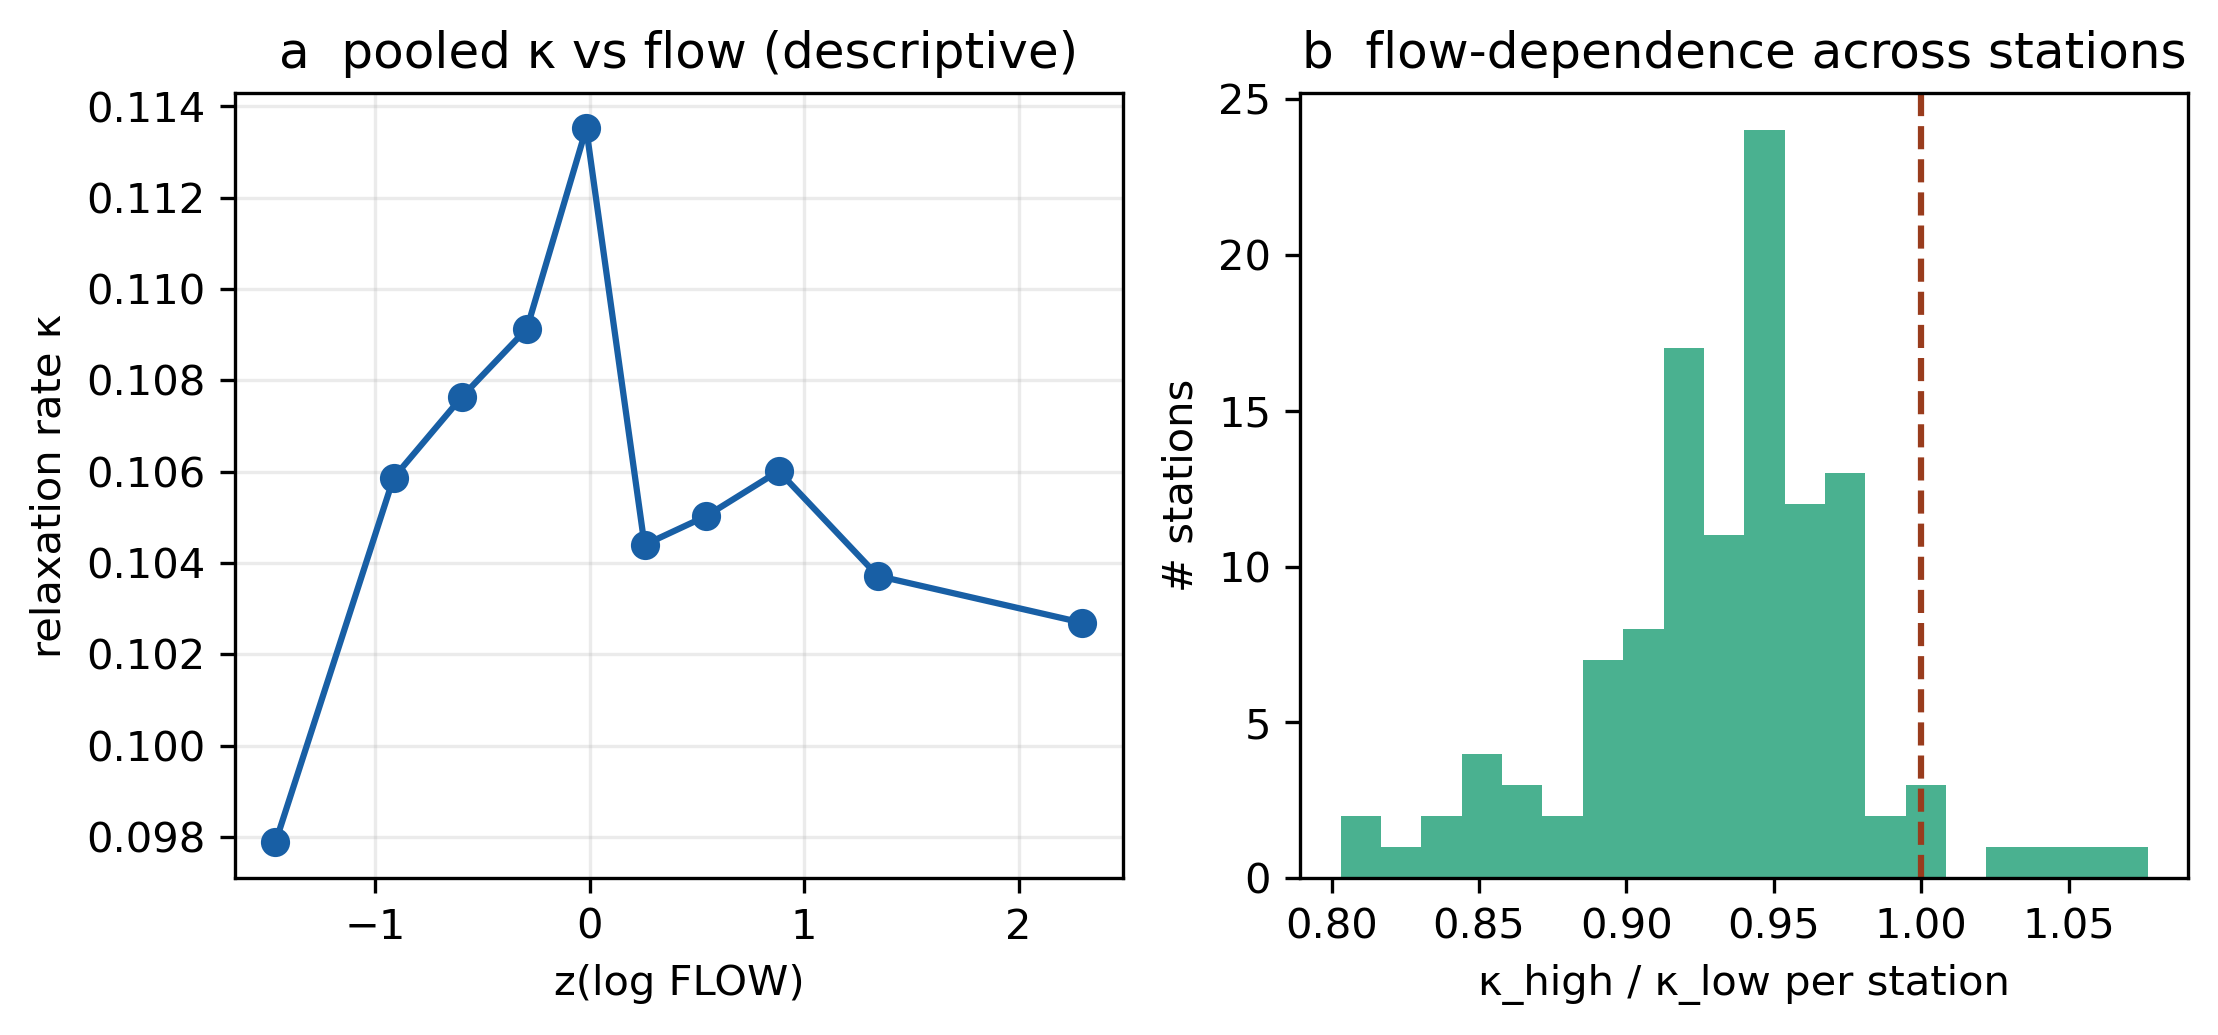
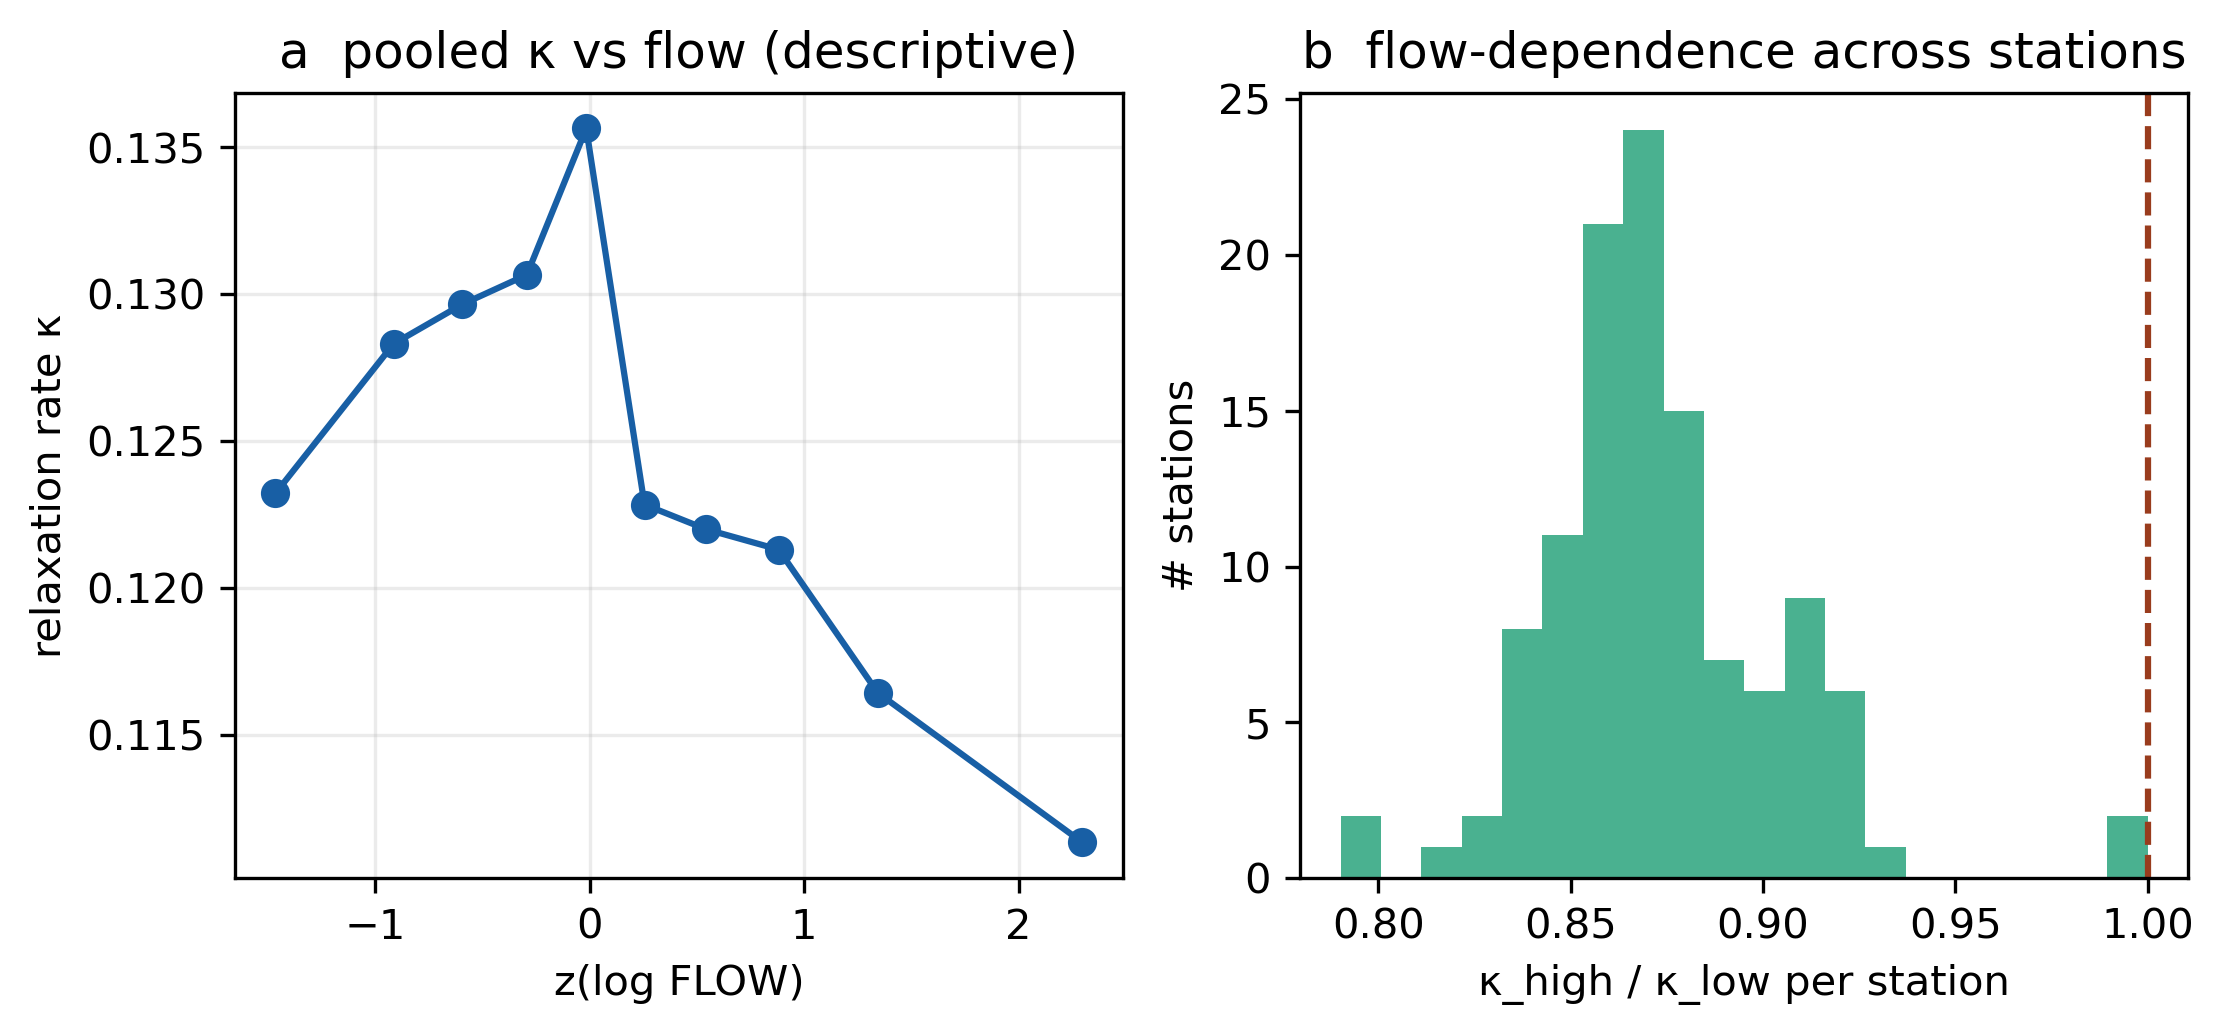
docs(paper): add per-station LightGBM row to Table A (global LGB is the stronger config)
M4 complete: per-station LightGBM (0.632/1.324/1.750) over-fits the limited per-gage record and is worse at h3/h7 than both the global LightGBM and ThermoRoute; Table A now reports both LightGBM configs and states the parity comparison is against the stronger global model. Re-rendered PDF/DOCX/AGU; manifest refreshed; pytest 14/14.

diff --git a/paper/agu_submission/ThermoRoute_WRR.tex b/paper/agu_submission/ThermoRoute_WRR.tex
@@ -427,15 +427,16 @@ Toffolon--Piccolroaz --- §3.5) is included as a \emph{physical} strong baseline
 
 {\def\LTcaptype{none} % do not increment counter
 \begin{longtable}[]{@{}
-  >{\raggedright\arraybackslash}p{(\linewidth - 16\tabcolsep) * \real{0.1111}}
-  >{\raggedright\arraybackslash}p{(\linewidth - 16\tabcolsep) * \real{0.1111}}
-  >{\raggedright\arraybackslash}p{(\linewidth - 16\tabcolsep) * \real{0.1111}}
-  >{\raggedright\arraybackslash}p{(\linewidth - 16\tabcolsep) * \real{0.1111}}
-  >{\raggedright\arraybackslash}p{(\linewidth - 16\tabcolsep) * \real{0.1111}}
-  >{\raggedright\arraybackslash}p{(\linewidth - 16\tabcolsep) * \real{0.1111}}
-  >{\raggedright\arraybackslash}p{(\linewidth - 16\tabcolsep) * \real{0.1111}}
-  >{\raggedright\arraybackslash}p{(\linewidth - 16\tabcolsep) * \real{0.1111}}
-  >{\raggedright\arraybackslash}p{(\linewidth - 16\tabcolsep) * \real{0.1111}}@{}}
+  >{\raggedright\arraybackslash}p{(\linewidth - 18\tabcolsep) * \real{0.1000}}
+  >{\raggedright\arraybackslash}p{(\linewidth - 18\tabcolsep) * \real{0.1000}}
+  >{\raggedright\arraybackslash}p{(\linewidth - 18\tabcolsep) * \real{0.1000}}
+  >{\raggedright\arraybackslash}p{(\linewidth - 18\tabcolsep) * \real{0.1000}}
+  >{\raggedright\arraybackslash}p{(\linewidth - 18\tabcolsep) * \real{0.1000}}
+  >{\raggedright\arraybackslash}p{(\linewidth - 18\tabcolsep) * \real{0.1000}}
+  >{\raggedright\arraybackslash}p{(\linewidth - 18\tabcolsep) * \real{0.1000}}
+  >{\raggedright\arraybackslash}p{(\linewidth - 18\tabcolsep) * \real{0.1000}}
+  >{\raggedright\arraybackslash}p{(\linewidth - 18\tabcolsep) * \real{0.1000}}
+  >{\raggedright\arraybackslash}p{(\linewidth - 18\tabcolsep) * \real{0.1000}}@{}}
 \toprule\noalign{}
 \begin{minipage}[b]{\linewidth}\raggedright
 horizon
@@ -446,7 +447,9 @@ damped
 \end{minipage} & \begin{minipage}[b]{\linewidth}\raggedright
 air2stream-a8
 \end{minipage} & \begin{minipage}[b]{\linewidth}\raggedright
-LightGBM
+LightGBM (global)
+\end{minipage} & \begin{minipage}[b]{\linewidth}\raggedright
+LightGBM (per-station)
 \end{minipage} & \begin{minipage}[b]{\linewidth}\raggedright
 ThermoRoute
 \end{minipage} & \begin{minipage}[b]{\linewidth}\raggedright
@@ -454,24 +457,27 @@ skill vs persist
 \end{minipage} & \begin{minipage}[b]{\linewidth}\raggedright
 skill vs damped
 \end{minipage} & \begin{minipage}[b]{\linewidth}\raggedright
-win-rate vs damped
+win vs damped
 \end{minipage} \\
 \midrule\noalign{}
 \endhead
 \bottomrule\noalign{}
 \endlastfoot
-1 d & 0.797 & 0.774 & 0.733 & 0.620 & 0.630 & +0.204 & +0.172 & 88 \% \\
-3 d & 1.581 & 1.406 & 1.409 & 1.300 & 1.289 & +0.186 & +0.078 & 94 \% \\
-7 d & 2.235 & 1.778 & 1.805 & 1.669 & 1.658 & +0.247 & +0.035 & 92 \% \\
+1 d & 0.797 & 0.774 & 0.733 & 0.620 & 0.632 & 0.630 & +0.204 & +0.172 & 88 \% \\
+3 d & 1.581 & 1.406 & 1.409 & 1.300 & 1.324 & 1.289 & +0.186 & +0.078 & 94 \% \\
+7 d & 2.235 & 1.778 & 1.805 & 1.669 & 1.750 & 1.658 & +0.247 & +0.035 & 92 \% \\
 \end{longtable}
 }
 
-(Medians are not bolded because ThermoRoute and LightGBM are a statistical tie at
-3--7 days and LightGBM leads at 1 day --- see the paired tests below and
-\texttt{claim1\_significance}; the sub-0.02 °C median gaps are not individually
-meaningful. air2stream here is the fair \emph{variant} of §3.5, calibrated on
-observed-target days and forecast with the observed air temperature driving the
-first step.)
+(Medians are not bolded because ThermoRoute and the \emph{global} LightGBM are a
+statistical tie at 3--7 days and LightGBM leads at 1 day --- see the paired tests
+below and \texttt{claim1\_significance}; the sub-0.02 °C median gaps are not individually
+meaningful. We report \textbf{both} LightGBM configurations: the global model is the
+stronger of the two on this panel --- a \emph{per-station} LightGBM over-fits the
+limited per-gage record and is worse at 3--7 days (1.324 / 1.750) than both the
+global model and ThermoRoute --- so the parity comparison is against the stronger,
+global LightGBM. air2stream is the fair \emph{variant} of §3.5, calibrated on
+observed-target days with the observed air temperature driving the first step.)
 
 ThermoRoute beats every \emph{physics} baseline (persistence, damped persistence,
 air2stream) at every horizon. Per-station Wilcoxon paired tests on the n=114

diff --git a/paper/ThermoRoute_paper.md b/paper/ThermoRoute_paper.md
@@ -362,18 +362,21 @@ uses 7 variables including gridMET wind, with the residual bound set to
 §3.3); an air2stream-style 8-parameter model (a *variant* of
 Toffolon–Piccolroaz — §3.5) is included as a *physical* strong baseline:
 
-| horizon | persistence | damped | air2stream-a8 | LightGBM | ThermoRoute | skill vs persist | skill vs damped | win-rate vs damped |
-|---|---|---|---|---|---|---|---|---|
-| 1 d | 0.797 | 0.774 | 0.733 | 0.620 | 0.630 | +0.204 | +0.172 | 88 % |
-| 3 d | 1.581 | 1.406 | 1.409 | 1.300 | 1.289 | +0.186 | +0.078 | 94 % |
-| 7 d | 2.235 | 1.778 | 1.805 | 1.669 | 1.658 | +0.247 | +0.035 | 92 % |
+| horizon | persistence | damped | air2stream-a8 | LightGBM (global) | LightGBM (per-station) | ThermoRoute | skill vs persist | skill vs damped | win vs damped |
+|---|---|---|---|---|---|---|---|---|---|
+| 1 d | 0.797 | 0.774 | 0.733 | 0.620 | 0.632 | 0.630 | +0.204 | +0.172 | 88 % |
+| 3 d | 1.581 | 1.406 | 1.409 | 1.300 | 1.324 | 1.289 | +0.186 | +0.078 | 94 % |
+| 7 d | 2.235 | 1.778 | 1.805 | 1.669 | 1.750 | 1.658 | +0.247 | +0.035 | 92 % |
 
-(Medians are not bolded because ThermoRoute and LightGBM are a statistical tie at
-3–7 days and LightGBM leads at 1 day — see the paired tests below and
-`claim1_significance`; the sub-0.02 °C median gaps are not individually
-meaningful. air2stream here is the fair *variant* of §3.5, calibrated on
-observed-target days and forecast with the observed air temperature driving the
-first step.)
+(Medians are not bolded because ThermoRoute and the *global* LightGBM are a
+statistical tie at 3–7 days and LightGBM leads at 1 day — see the paired tests
+below and `claim1_significance`; the sub-0.02 °C median gaps are not individually
+meaningful. We report **both** LightGBM configurations: the global model is the
+stronger of the two on this panel — a *per-station* LightGBM over-fits the
+limited per-gage record and is worse at 3–7 days (1.324 / 1.750) than both the
+global model and ThermoRoute — so the parity comparison is against the stronger,
+global LightGBM. air2stream is the fair *variant* of §3.5, calibrated on
+observed-target days with the observed air temperature driving the first step.)
 
 ThermoRoute beats every *physics* baseline (persistence, damped persistence,
 air2stream) at every horizon. Per-station Wilcoxon paired tests on the n=114